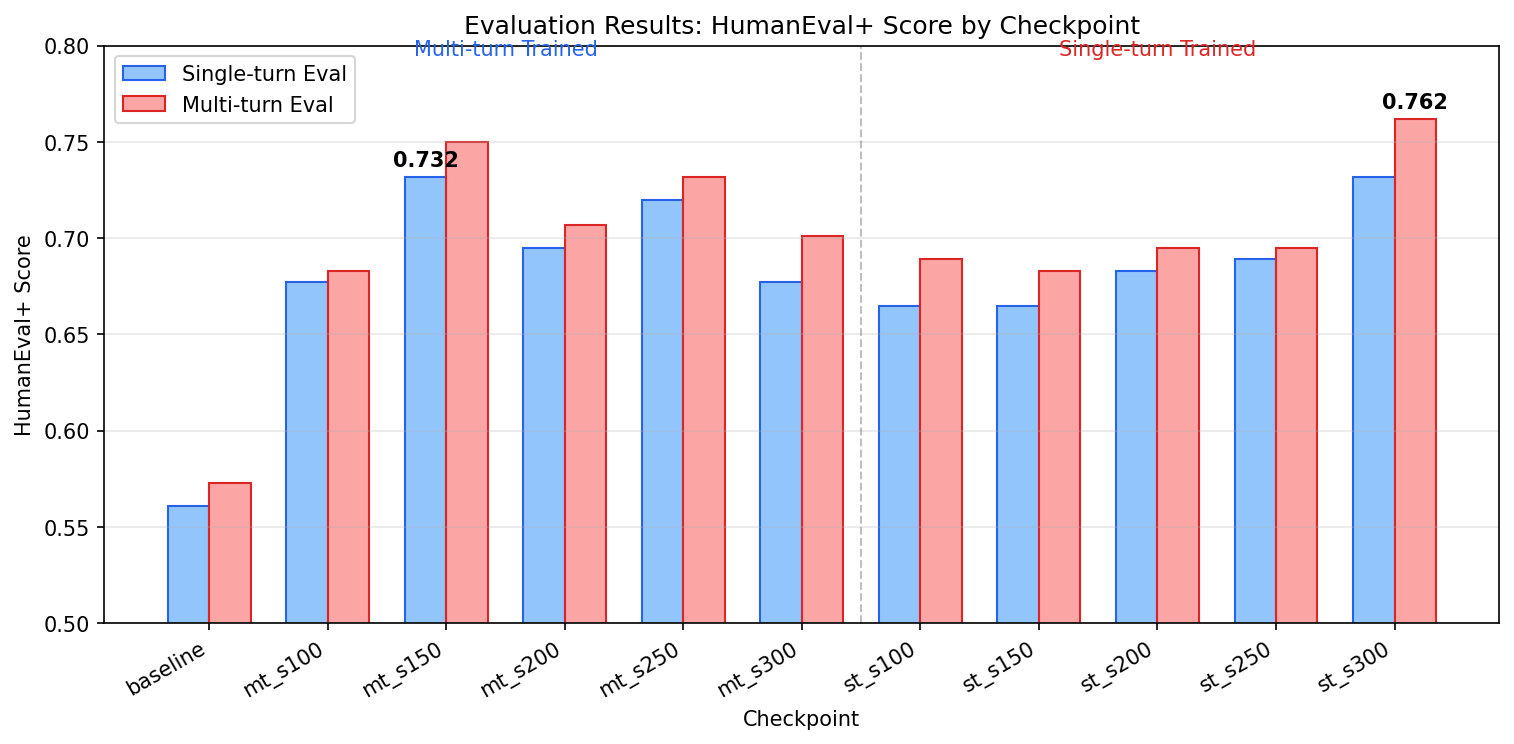
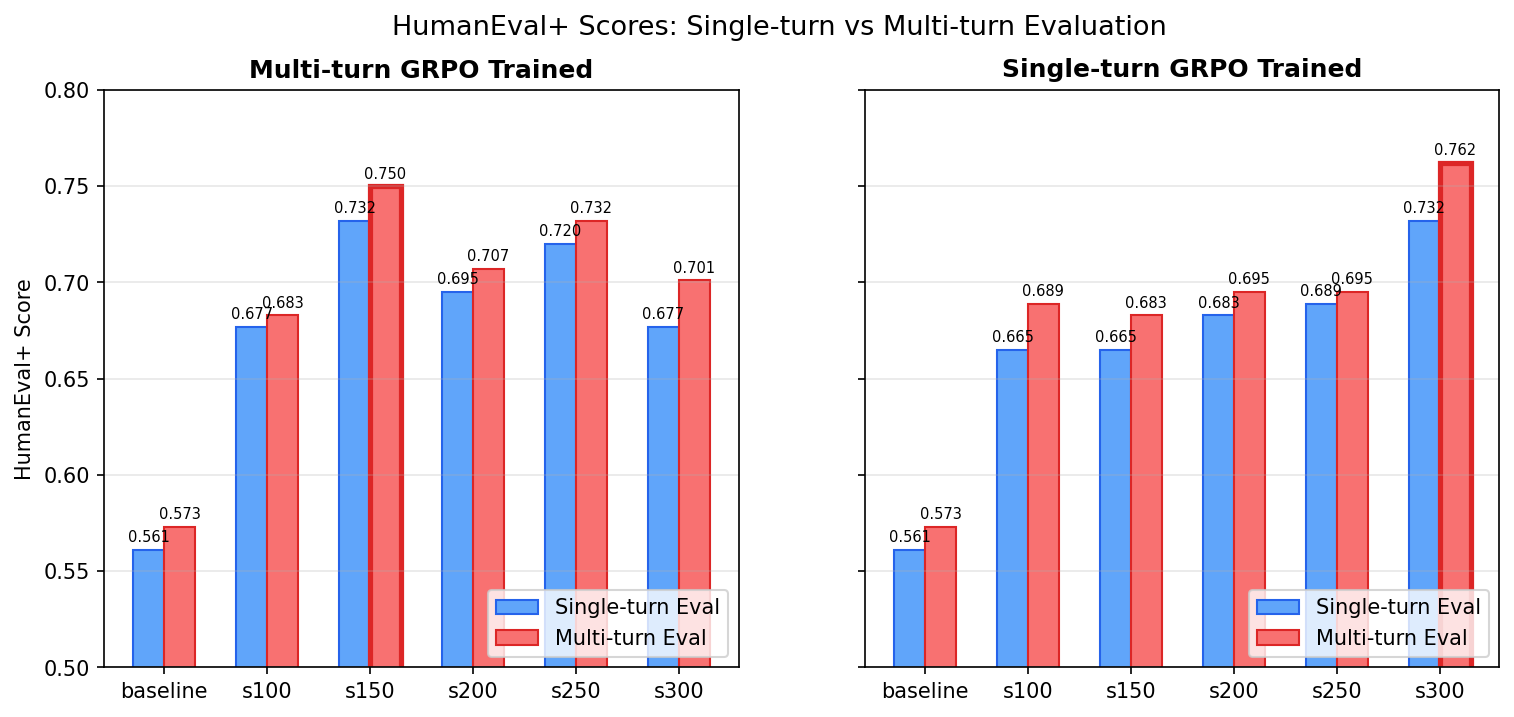
评估柱状图重设计：拆成左右两张子图，提升可读性

diff --git a/scripts/plot_report.py b/scripts/plot_report.py
@@ -244,52 +244,59 @@ def plot_correction_rates():
 
 
 # ============================================================
-# 图 5: 评估结果柱状图 - HumanEval+ 对比
+# 图 5: 评估结果柱状图 - 拆成两张子图
 # ============================================================
 def plot_eval_bars():
-    # 数据来自 REPORT.md 中的评估结果表
-    checkpoints = ['baseline', 'mt_s100', 'mt_s150', 'mt_s200', 'mt_s250', 'mt_s300',
-                   'st_s100', 'st_s150', 'st_s200', 'st_s250', 'st_s300']
+    # 多轮训练 checkpoints
+    mt_cks = ['baseline', 's100', 's150', 's200', 's250', 's300']
+    mt_single = [0.561, 0.677, 0.732, 0.695, 0.720, 0.677]  # 单轮评估 HEval+
+    mt_multi  = [0.573, 0.683, 0.750, 0.707, 0.732, 0.701]  # 多轮评估 HEval+
 
-    # 单轮评估 HEval+
-    single_heval = [0.561, 0.677, 0.732, 0.695, 0.720, 0.677,
-                    0.665, 0.665, 0.683, 0.689, 0.732]
-    # 多轮评估 HEval+
-    multi_heval =  [0.573, 0.683, 0.750, 0.707, 0.732, 0.701,
-                    0.689, 0.683, 0.695, 0.695, 0.762]
+    # 单轮训练 checkpoints
+    st_cks = ['baseline', 's100', 's150', 's200', 's250', 's300']
+    st_single = [0.561, 0.665, 0.665, 0.683, 0.689, 0.732]
+    st_multi  = [0.573, 0.689, 0.683, 0.695, 0.695, 0.762]
 
-    fig, ax = plt.subplots(figsize=(12, 5))
+    fig, (ax1, ax2) = plt.subplots(1, 2, figsize=(12, 5), sharey=True)
 
-    x = np.arange(len(checkpoints))
-    width = 0.35
+    width = 0.3
 
-    bars1 = ax.bar(x - width/2, single_heval, width, label='Single-turn Eval', color='#93c5fd', edgecolor='#2563eb')
-    bars2 = ax.bar(x + width/2, multi_heval, width, label='Multi-turn Eval', color='#fca5a5', edgecolor='#dc2626')
+    # 左图：多轮训练
+    x1 = np.arange(len(mt_cks))
+    ax1.bar(x1 - width/2, mt_single, width, label='Single-turn Eval', color='#60a5fa', edgecolor='#2563eb')
+    ax1.bar(x1 + width/2, mt_multi,  width, label='Multi-turn Eval',  color='#f87171', edgecolor='#dc2626')
+    ax1.set_title('Multi-turn GRPO Trained', fontsize=12, fontweight='bold')
+    ax1.set_xticks(x1)
+    ax1.set_xticklabels(mt_cks)
+    ax1.set_ylabel('HumanEval+ Score')
+    ax1.legend(loc='lower right')
+    ax1.set_ylim(0.5, 0.8)
+    ax1.grid(True, axis='y', alpha=0.3)
+    # 标数值
+    for i in range(len(mt_cks)):
+        ax1.text(i - width/2, mt_single[i] + 0.004, f'{mt_single[i]:.3f}', ha='center', fontsize=7)
+        ax1.text(i + width/2, mt_multi[i]  + 0.004, f'{mt_multi[i]:.3f}',  ha='center', fontsize=7)
+    # 标最佳
+    best_idx = np.argmax(mt_multi)
+    ax1.bar(x1[best_idx] + width/2, mt_multi[best_idx], width, color='#f87171', edgecolor='#dc2626', linewidth=2.5)
 
-    ax.set_xlabel('Checkpoint')
-    ax.set_ylabel('HumanEval+ Score')
-    ax.set_title('Evaluation Results: HumanEval+ Score by Checkpoint')
-    ax.set_xticks(x)
-    ax.set_xticklabels(checkpoints, rotation=30, ha='right')
-    ax.legend()
-    ax.set_ylim(0.5, 0.8)
-    ax.grid(True, axis='y', alpha=0.3)
+    # 右图：单轮训练
+    x2 = np.arange(len(st_cks))
+    ax2.bar(x2 - width/2, st_single, width, label='Single-turn Eval', color='#60a5fa', edgecolor='#2563eb')
+    ax2.bar(x2 + width/2, st_multi,  width, label='Multi-turn Eval',  color='#f87171', edgecolor='#dc2626')
+    ax2.set_title('Single-turn GRPO Trained', fontsize=12, fontweight='bold')
+    ax2.set_xticks(x2)
+    ax2.set_xticklabels(st_cks)
+    ax2.legend(loc='lower right')
+    ax2.set_ylim(0.5, 0.8)
+    ax2.grid(True, axis='y', alpha=0.3)
+    for i in range(len(st_cks)):
+        ax2.text(i - width/2, st_single[i] + 0.004, f'{st_single[i]:.3f}', ha='center', fontsize=7)
+        ax2.text(i + width/2, st_multi[i]  + 0.004, f'{st_multi[i]:.3f}',  ha='center', fontsize=7)
+    best_idx2 = np.argmax(st_multi)
+    ax2.bar(x2[best_idx2] + width/2, st_multi[best_idx2], width, color='#f87171', edgecolor='#dc2626', linewidth=2.5)
 
-    # 标注最佳
-    best_single_idx = np.argmax(single_heval)
-    best_multi_idx = np.argmax(multi_heval)
-    ax.annotate(f'{single_heval[best_single_idx]:.3f}',
-                xy=(x[best_single_idx] - width/2, single_heval[best_single_idx]),
-                xytext=(0, 5), textcoords='offset points', ha='center', fontweight='bold')
-    ax.annotate(f'{multi_heval[best_multi_idx]:.3f}',
-                xy=(x[best_multi_idx] + width/2, multi_heval[best_multi_idx]),
-                xytext=(0, 5), textcoords='offset points', ha='center', fontweight='bold')
-
-    # 分隔线：多轮训练 vs 单轮训练
-    ax.axvline(x=5.5, color='gray', linestyle='--', linewidth=1, alpha=0.5)
-    ax.text(2.5, 0.795, 'Multi-turn Trained', ha='center', fontsize=10, color='#2563eb')
-    ax.text(8, 0.795, 'Single-turn Trained', ha='center', fontsize=10, color='#dc2626')
-
+    fig.suptitle('HumanEval+ Scores: Single-turn vs Multi-turn Evaluation', fontsize=13)
     fig.savefig(OUT / 'eval_heval_plus.png')
     plt.close(fig)
     print(f"  -> eval_heval_plus.png")
